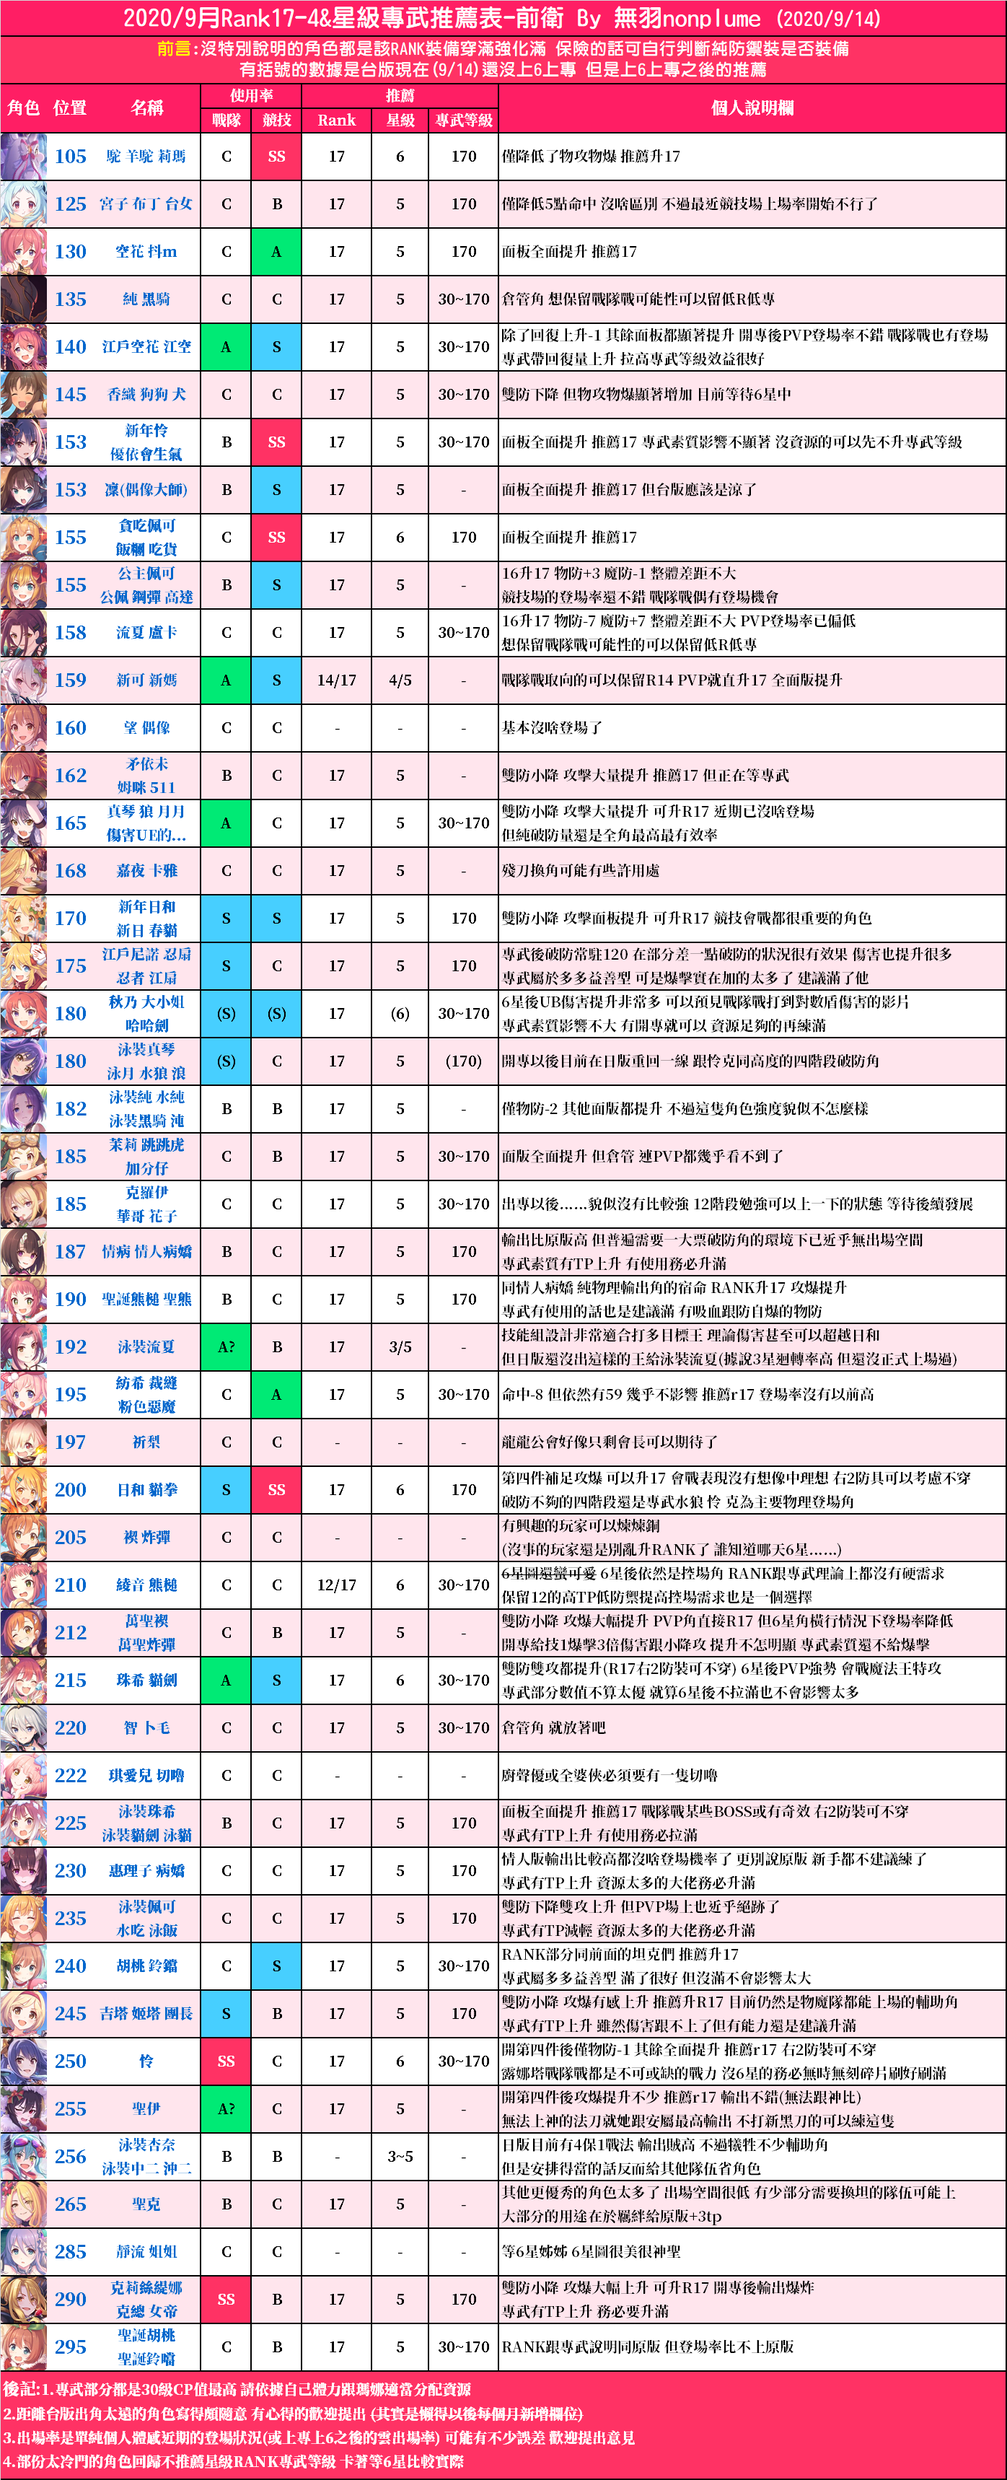
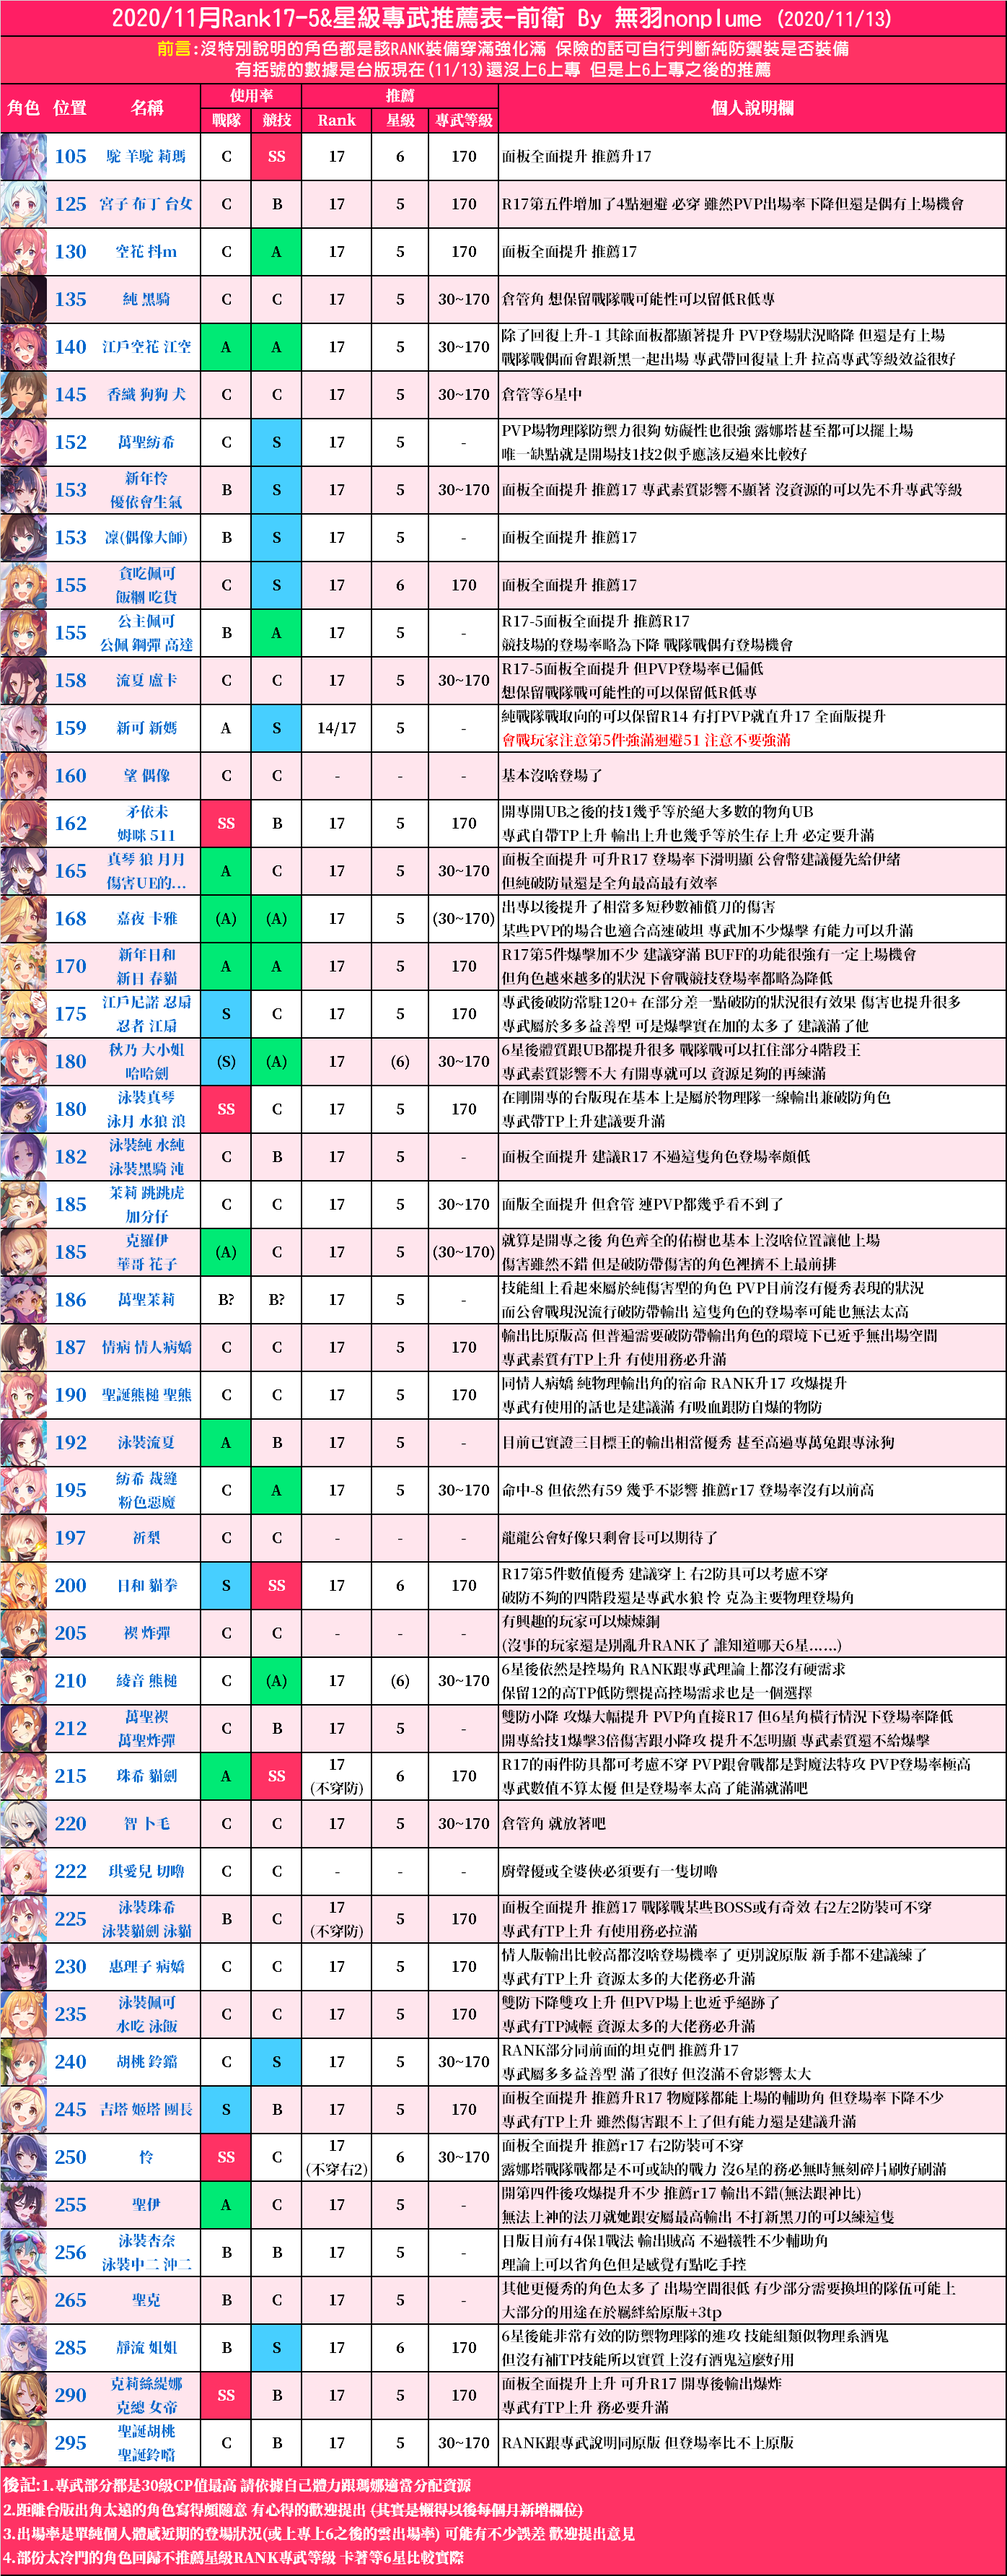
update rank

diff --git a/Chloe/group_chats/chats.py b/Chloe/group_chats/chats.py
@@ -42,19 +42,19 @@ async def decrease(session: NoticeSession):
 @on_command('前卫rank')
 async def _(session: CommandSession):
     path = os.path.join(os.path.dirname(__file__), "RF.png")
-    await session.send(f'無羽R17-4[CQ:image,file=file:///{path}]')
+    await session.send(f'無羽R17-5[CQ:image,file=file:///{path}]')
 
 
 @on_command('中卫rank')
 async def _(session: CommandSession):
     path = os.path.join(os.path.dirname(__file__), "RM.png")
-    await session.send(f'無羽R17-4[CQ:image,file=file:///{path}]')
+    await session.send(f'無羽R17-5[CQ:image,file=file:///{path}]')
 
 
 @on_command('后卫rank')
 async def _(session: CommandSession):
     path = os.path.join(os.path.dirname(__file__), "RB.png")
-    await session.send(f'無羽R17-4[CQ:image,file=file:///{path}]')
+    await session.send(f'無羽R17-5[CQ:image,file=file:///{path}]')
 
 
 @on_command('rank')
